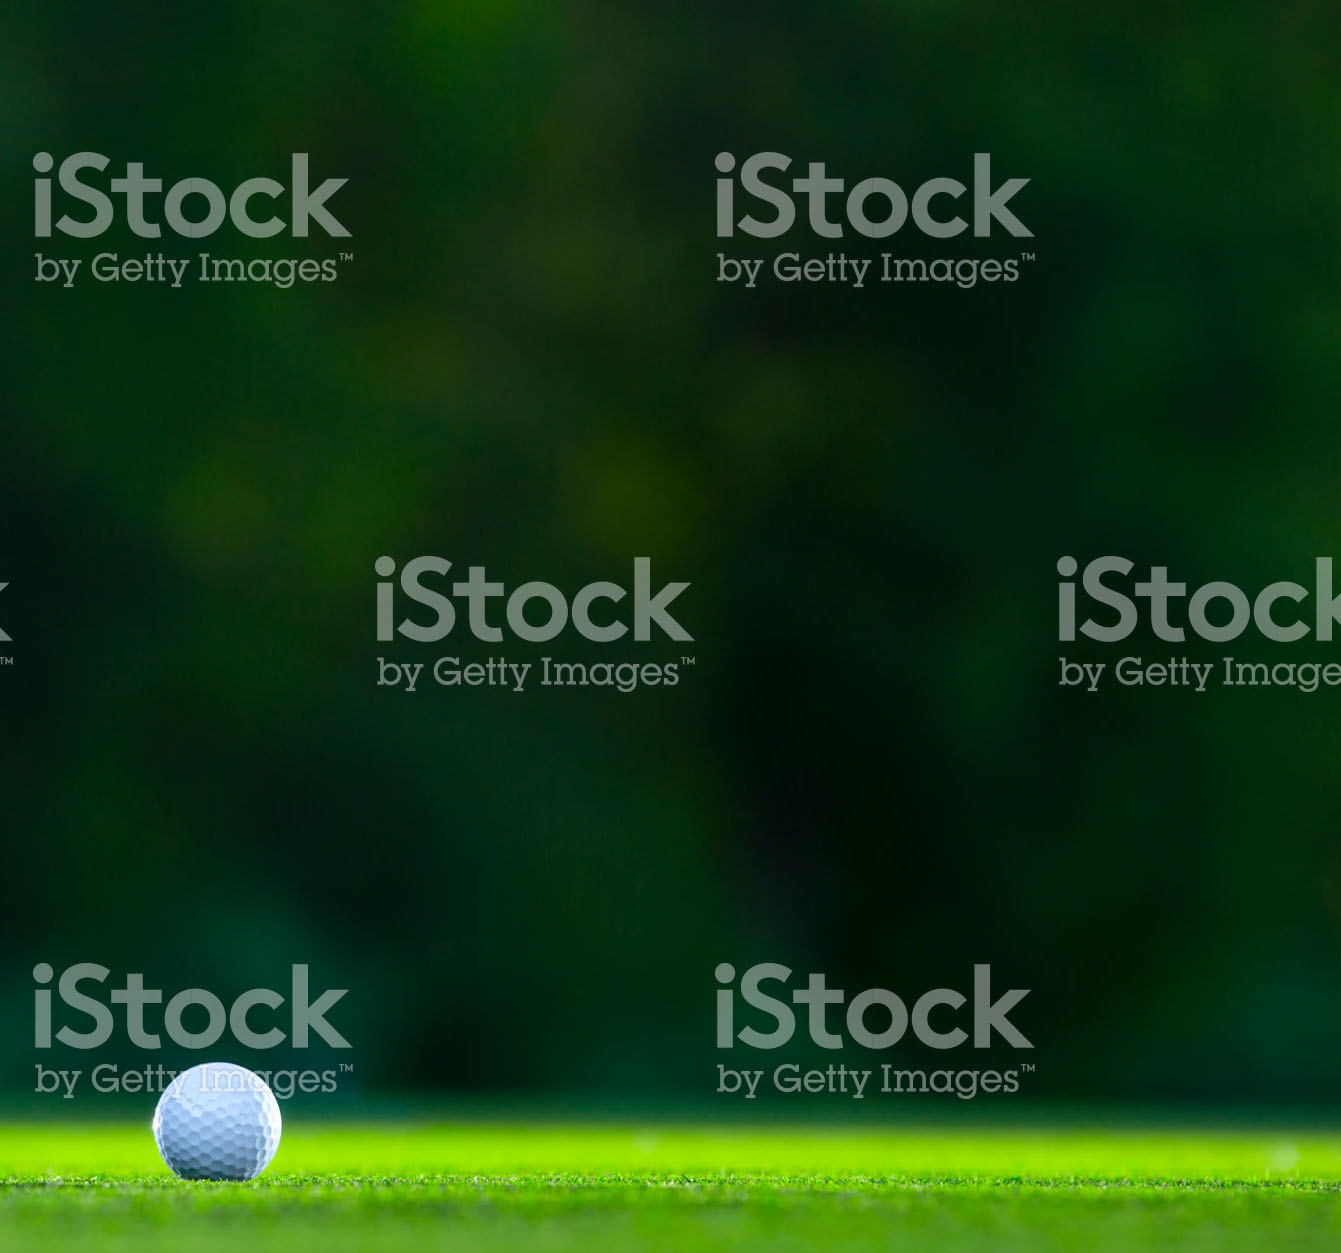
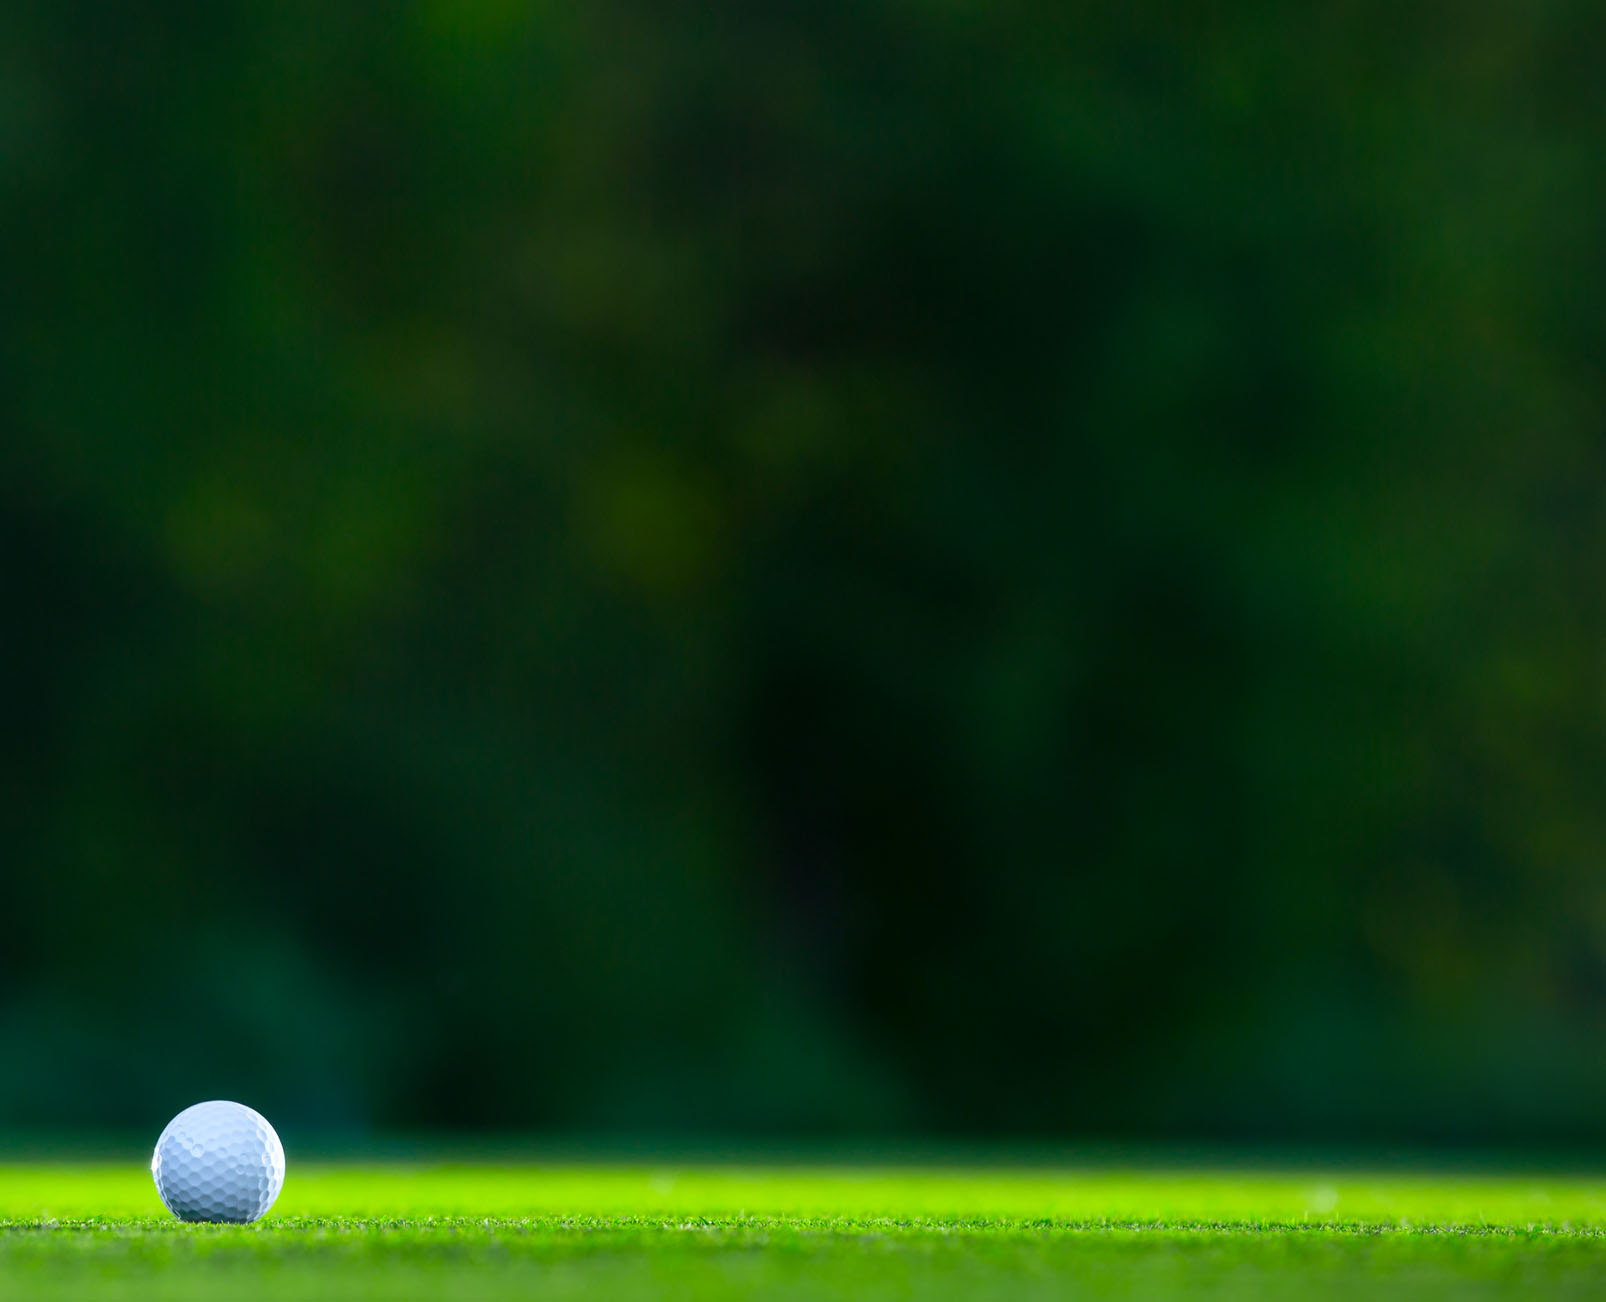
added the purchased stock photo for the golf bg

diff --git a/css/style.css b/css/style.css
@@ -607,7 +607,7 @@ button,
 .home-golf-heading
 {
 	padding: 40px 20px;
-	background: url(../images/bg-golf.jpg) no-repeat left bottom;
+	background: url(../images/bg-golf.jpg?v=1) no-repeat left bottom;
 	background-size: cover;
 	color: white;
 	font-weight: 600;

diff --git a/head.php b/head.php
@@ -9,7 +9,7 @@ $config = require(__DIR__.'/config.php');
     <link rel="icon" type="image/png" href="/images/favicon.png">
     <meta name="viewport" content="width=device-width, user-scalable=yes, initial-scale=1">
     <link href="https://fonts.googleapis.com/css?family=Muli:300,300i,400,400i,600,600i,800,800i" rel="stylesheet">
-    <link rel="stylesheet" type="text/css" href="/css/style.css?v=4" media="all">
+    <link rel="stylesheet" type="text/css" href="/css/style.css?v=5" media="all">
     <script type="text/javascript" src="/js/jquery-1.11.0.min.js"></script>
 </head>
 <body>
